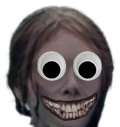
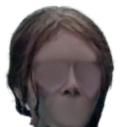
final final

Changed region(s): [[0.325, 0.7323, 0.825, 0.9685], [0.6, 0.4016, 0.85, 0.6378], [0.3, 0.4016, 0.55, 0.6378]]

diff --git a/behind.html b/behind.html
@@ -7,16 +7,17 @@
     <meta http-equiv='expires' content='0'> 
     <meta http-equiv='pragma' content='no-cache'>
     <meta name="viewport" content="width=device-width, initial-scale=1.0">
-    <title>Eleanor!!</title>
+    <title>Who could it be now?!</title>
+    <link rel="icon" href="favicon2.ico" type="image/x-icon">
     <link rel="stylesheet" href="Eleanor.css">
 </head>
 
 
 <body>
-    <audio id="scaryAudio" loop>
-        <source src="scary.mp3" type="audio/mpeg">
+    <audio id="scaryAudio">
+        <source src="scary.mp3" type="audio/mpeg" volume="0.5">
 </audio>
-<h2>Click to turn on the lights...</h2>
+<h2 class="center">Click to turn on the lights...</h2>
 <script>
   document.addEventListener("click", function () {
     document.getElementById("scaryAudio").play();
@@ -24,14 +25,24 @@
     document.body.classList.add("revealed");
     document.querySelector("h2").classList.add("hidden");
 
-    document.querySelector("h1").classList.remove("hidden");
+    const image = document.getElementById("eleanorImage");
+    image.classList.remove("hidden");
+    image.classList.add("jumpscare");
+  
     document.querySelector("img").classList.remove("hidden");
+
+    image.addEventListener("animationend", function () {
+      document.querySelector("h1").classList.remove("hidden");
+    document.querySelector("h3").classList.remove("hidden");
     document.querySelector("footer").classList.remove("hidden");
+    });
+    
   }, { once: true });
 </script>
+    <img id="eleanorImage" class="hidden" src="Eleanor.png" alt="Eleanor Image" width="600" height="600">
 
-    <h1 class="hidden">IT'S ELEANOR!</h1>
-    <img class="hidden" src="Eleanor.png" alt="Eleanor Image" width="600" height="600">
-</body>
+    <h1 id="prompt" class="hidden">Unnamed evildoer is behind you!</h1>
+    <h3 id="prompt" class="hidden">You will be missed...</h3>
+  </body>
 <footer class="hidden">
-    <p>&copy; 2099 Eleanor. All rights reserved. Send horsie photos to horsie@eleanor.com</p>
+    <p>&copy; 2099 Unnamed evildoer. All rights reserved. Send horsie photos to horsie@unnamedevildoer.com</p>

diff --git a/Eleanor.css b/Eleanor.css
@@ -4,15 +4,86 @@
     text-decoration: none;
 }
 
+@keyframes jumpscareZoom {
+  0% {
+    transform-origin: center;
+    transform-style: preserve-3d;
+    transform: scale(1);
+    opacity: 0;
+  }
+    20% {
+        transform: scale(1.5);
+        opacity: 1;
+    }
+  40% {
+    transform: scale(2);
+    opacity: 1;
+  }
+  50% {
+    transform: scale(2.5);
+    opacity: 1;
+  }
+  60% {
+    transform: scale(3);
+    opacity: 1;
+  }
+  70% {
+    transform: scale(3.5);
+    opacity: 1;
+  }
+  90% {
+    transform: scale(4);
+    opacity: 1;
+  }
+    100% {
+        transform: scale(4);
+        opacity: 1;
+        display: none;
+    }
+
+}
+
+
+.jumpscare {
+  animation: jumpscareZoom 0.4s forwards;
+}
+
 body {
     background-color: black;
     font-family: scary, sans-serif;
     color: darkred;
-    font-size: 50px;
     align-items: center;
     display: flex;
     flex-direction: column;
     text-align: center;
+}
+
+h1 {
+    font-size: 90px;
+    margin-top: 20px;
+    color: darkred;
+}
+
+h2 {
+    font-size: 60px;
+    margin-top: 100px;
+    color: darkred;
+}
+
+h3 {
+    font-size: 40px;
+    margin-top: 50px;
+    color: darkred;
+}
+
+footer {
+    position: fixed;
+    bottom: 0;
+    width: 100%;
+    color: darkred;
+    text-align: center;
+    padding: 10px;
+    font-size: 40px;
 }
 
 body.revealed {
@@ -24,9 +95,19 @@ body.revealed {
 img {
     max-width: 80%;
     max-height: 20%;
+    align-content: center;
 }
 .hidden {
     display: none;
+}
+
+.center {
+    position:absolute;
+    top: 50%;
+    left: 50%;
+    transform: translate(-50%, -50%);
+    margin: 0;
+    text-align: center;
 }
 
 @media screen and (max-width: 600px) {

diff --git a/index.html b/index.html
@@ -9,6 +9,7 @@
     <meta http-equiv='expires' content='0'> 
     <meta http-equiv='pragma' content='no-cache'>
     <title>Igor</title>
+    <link rel="icon" href="favicon1.ico" type="image/x-icon">
     <link rel="stylesheet" href="CSS.css">
 </head>
 

diff --git a/CSS.css b/CSS.css
@@ -20,7 +20,7 @@
     }
     button {
         font-size: 15px;
-        padding: 5px 10px;
+        padding: 50px 100px;
     }
     footer p {
         font-size: 6px;
